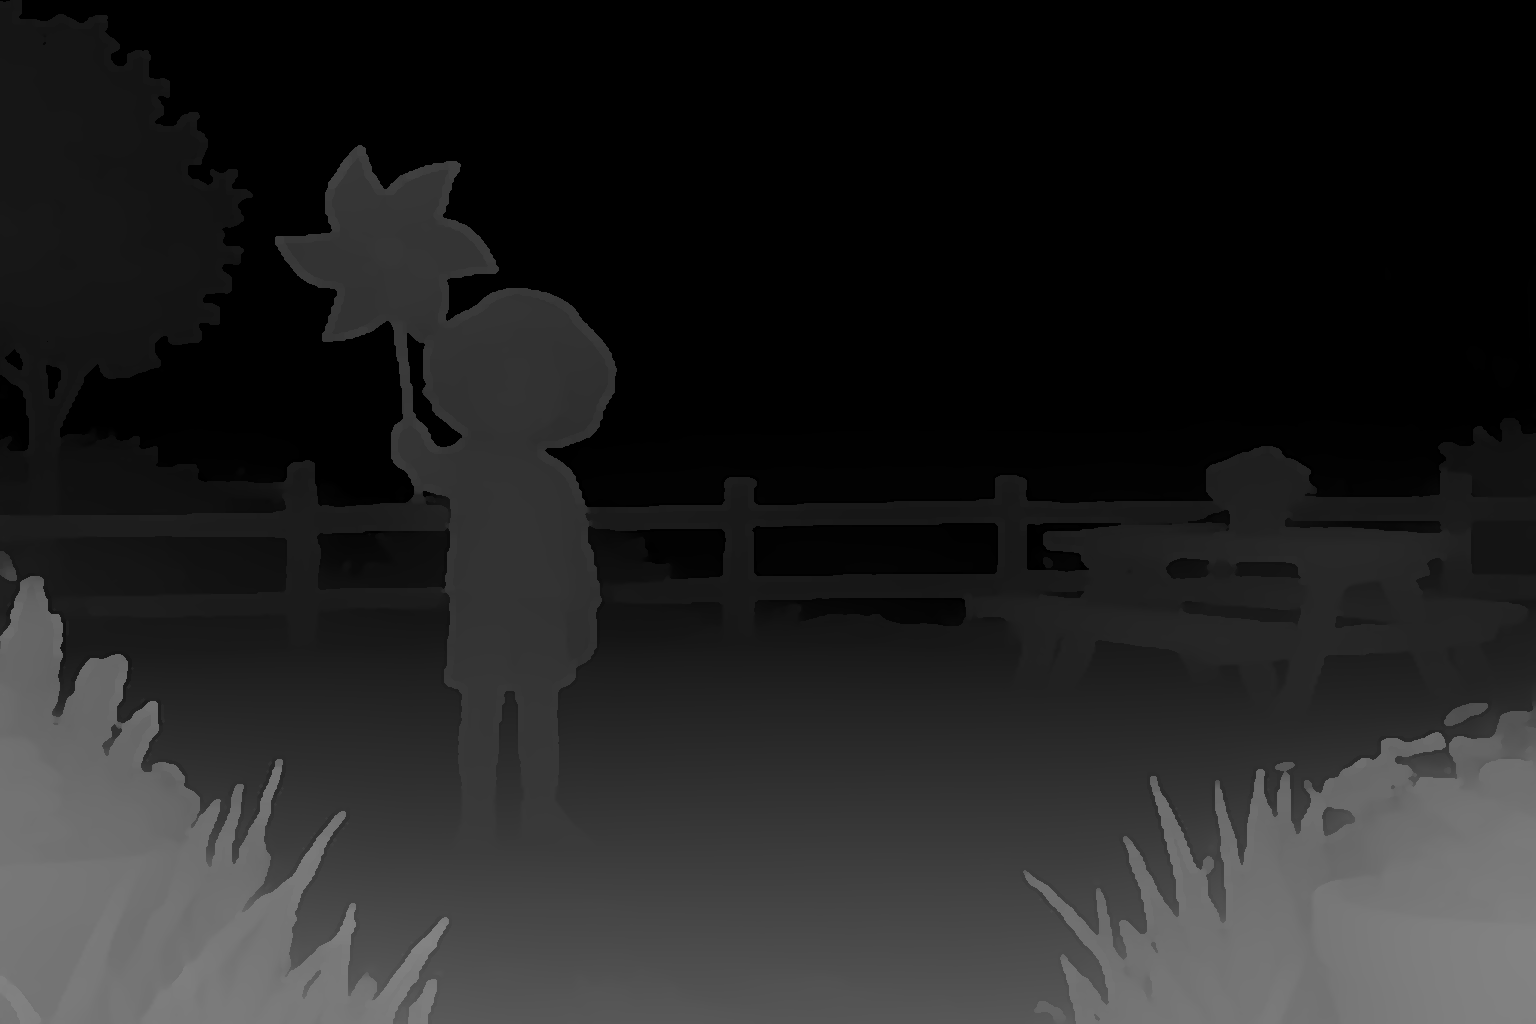
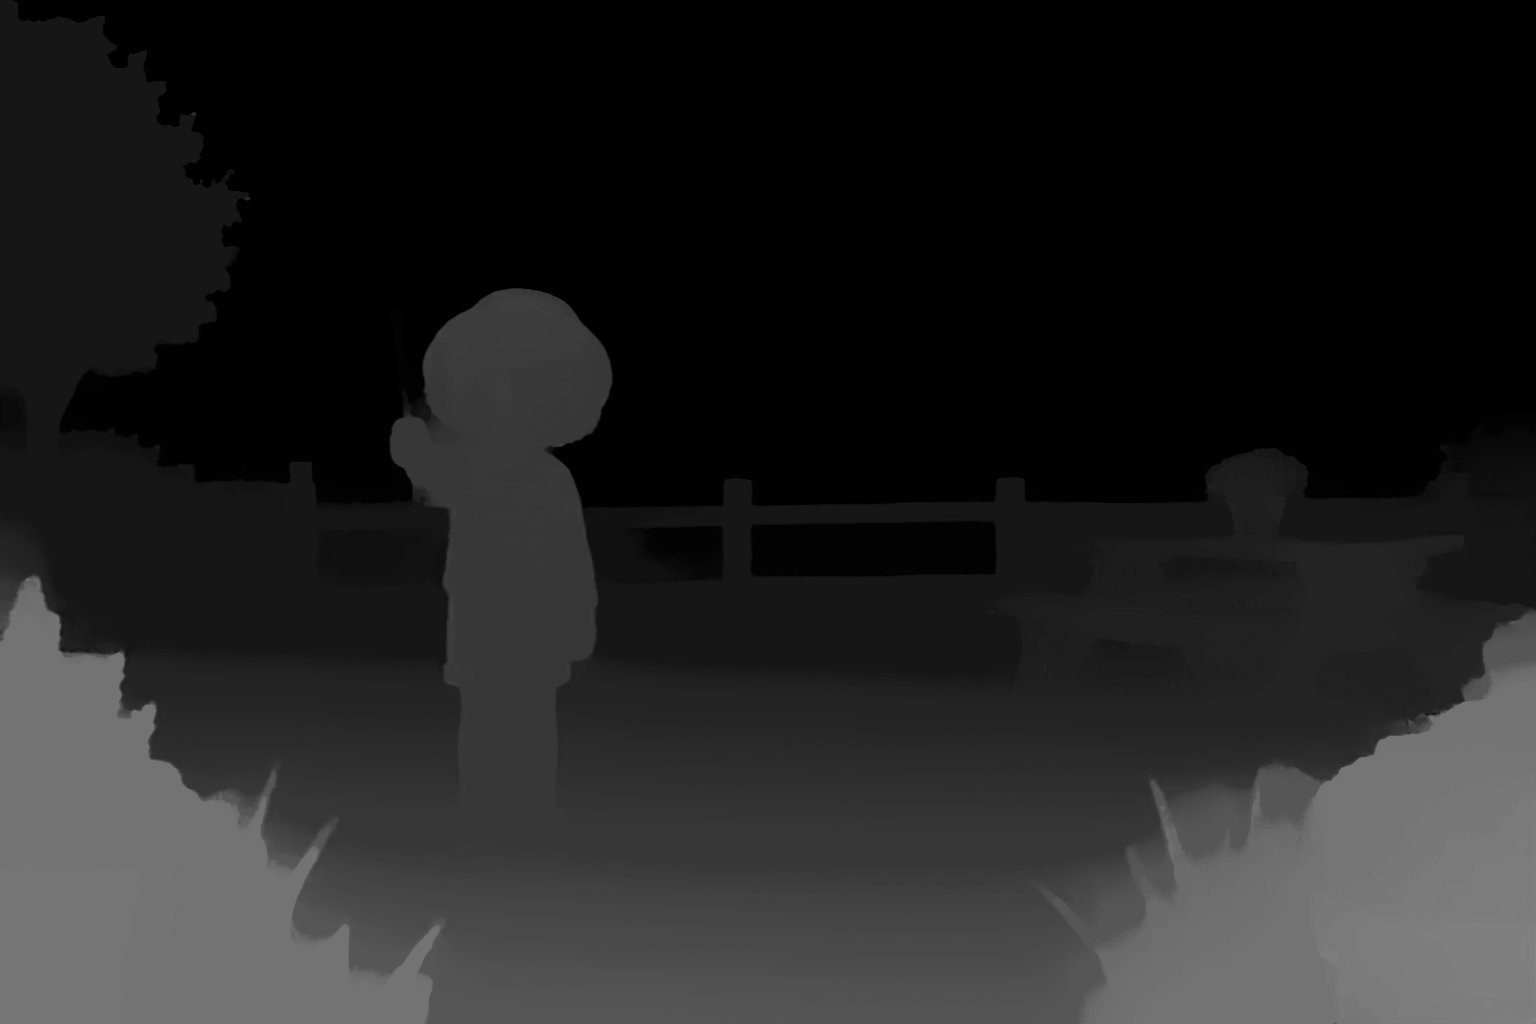
Carte de profondeur Photoshop (recalée en distances) et transition douce fond/premier plan
Claude-Session: https://claude.ai/code/session_014kpAsH4ZdMW1fcr1txRMCg

diff --git a/src/effects/dof.ts b/src/effects/dof.ts
@@ -170,8 +170,15 @@ export function renderDepthOfField(
         sampleLevels(levels, plain, r, p, base);
       } else {
         sampleLevels(levels, bg, r, p, base);
-        // Zone du fond entièrement cachée par le sujet : repli sur l'image complète.
-        if (base[3] < 24) sampleLevels(levels, plain, r, p, base);
+        // Près du sujet, le fond seul est peu représenté : on passe en douceur
+        // vers l'image complète (pas de trait à la frontière).
+        const wBg = clamp((base[3] - 16) / 160, 0, 1);
+        if (wBg < 1) {
+          sampleLevels(levels, plain, r, p, front);
+          base[0] = front[0] + (base[0] - front[0]) * wBg;
+          base[1] = front[1] + (base[1] - front[1]) * wBg;
+          base[2] = front[2] + (base[2] - front[2]) * wBg;
+        }
       }
       // Débord progressif d'un premier plan flou sur ce qui est derrière lui.
       if (nearSpread && !isNear) {
